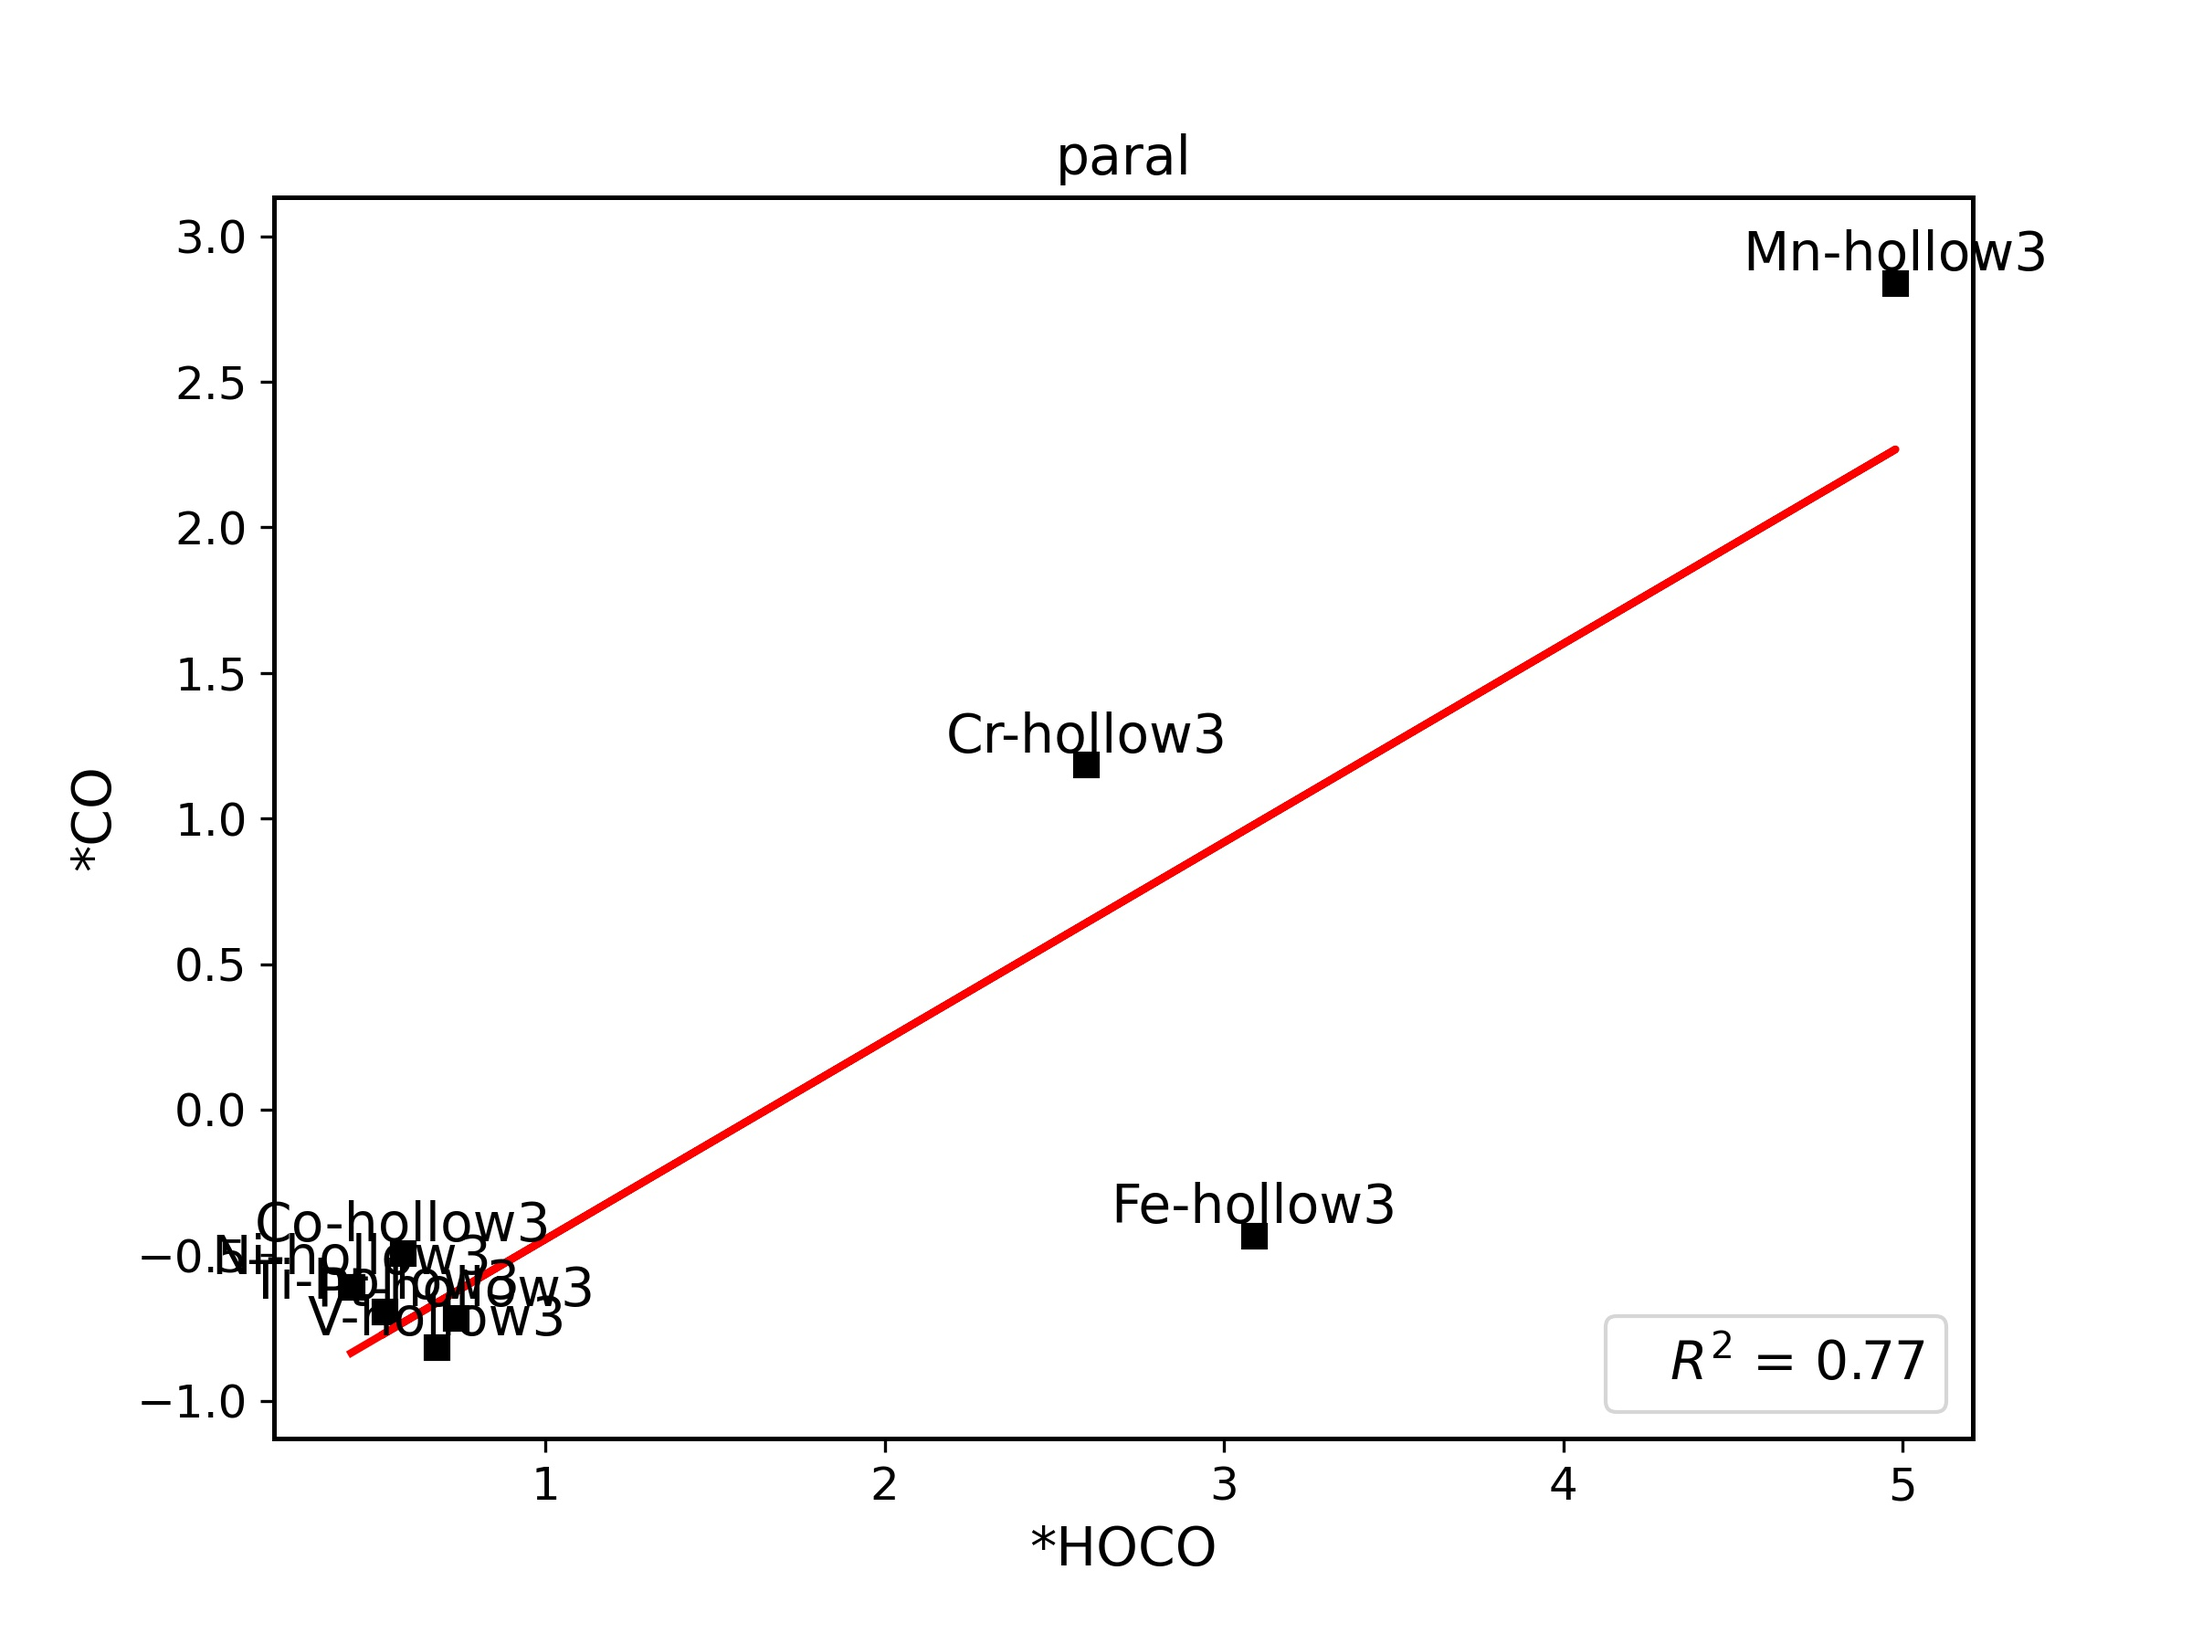
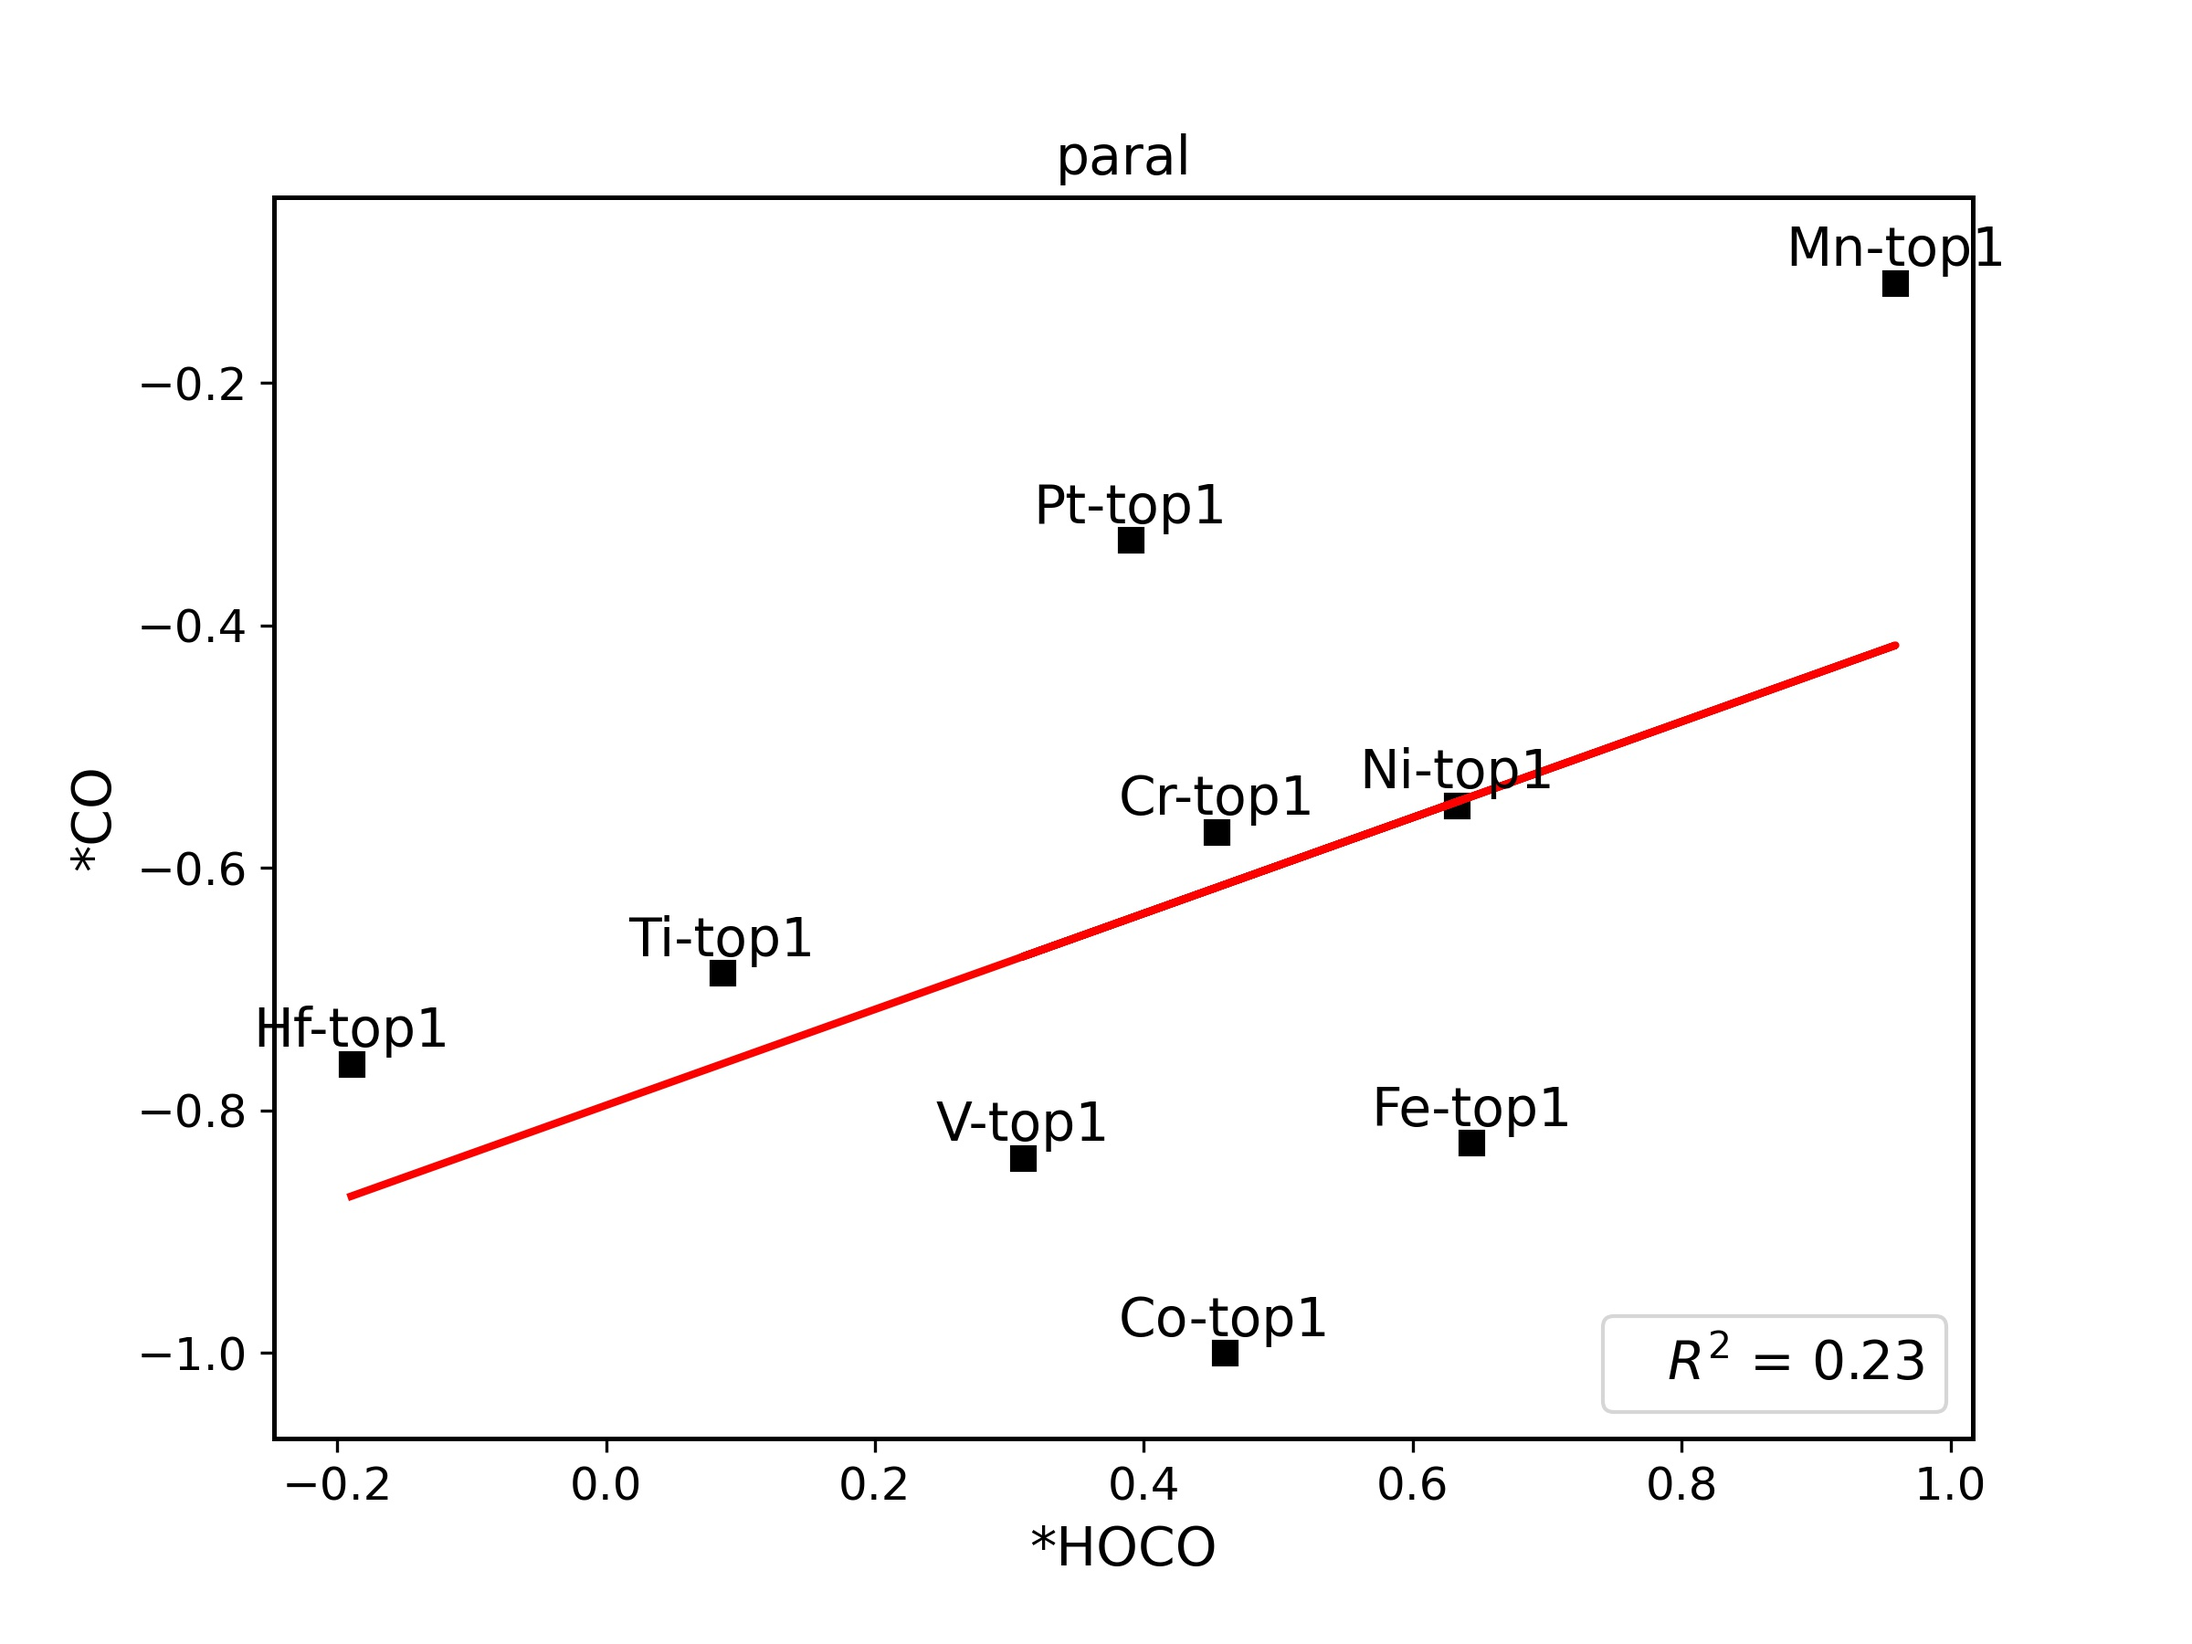
update linear relation

diff --git a/plotpackage/myproject/CO2RR_plot_binding_energy.py b/plotpackage/myproject/CO2RR_plot_binding_energy.py
@@ -21,7 +21,7 @@ min_col = 1 #1st column in excel
 max_col = 5 #5th column in excel
 
 #change it only for excel
-sheet = 'fix2-paral' #Sheet1 by defaut
+sheet = 'paral' #Sheet1 by defaut
 min_row = 1 #1st column in excel
 max_row = 55 #9st column in excel
 
@@ -45,12 +45,12 @@ stepsNames, observationName, X = read_excel(filename, sheet, min_col, max_col, m
 # observationName = np.delete(observationName, del_list, 0)
 # X = np.delete(X, del_list, 0)
 
-# choose some rows
-# ranges = range(7,55,6)
-# #ranges = [3,15,7,5]
-# observationName = [observationName[i-2] for i in ranges]
-# selected_rows = [i-2 for i in ranges]
-# X = X[selected_rows,:]
+#choose some rows
+ranges = range(2,55,6)
+#ranges = [3,15,7,5]
+observationName = [observationName[i-2] for i in ranges]
+selected_rows = [i-2 for i in ranges]
+X = X[selected_rows,:]
 
 CO2RRdiagram = CO2RRFEDplot(stepsNames, observationName, X, figName1)
 # #costom connection
